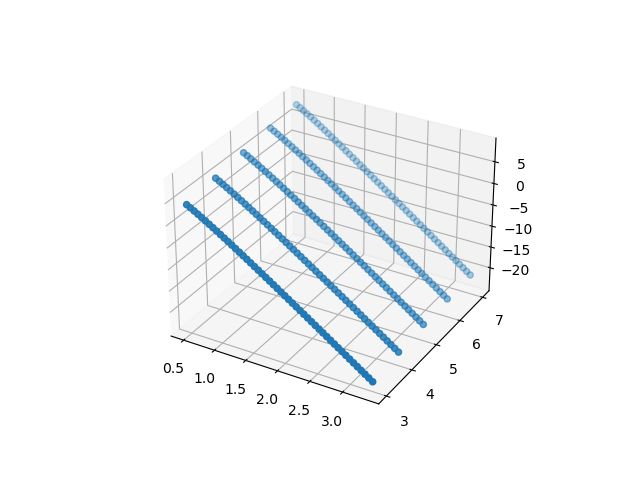
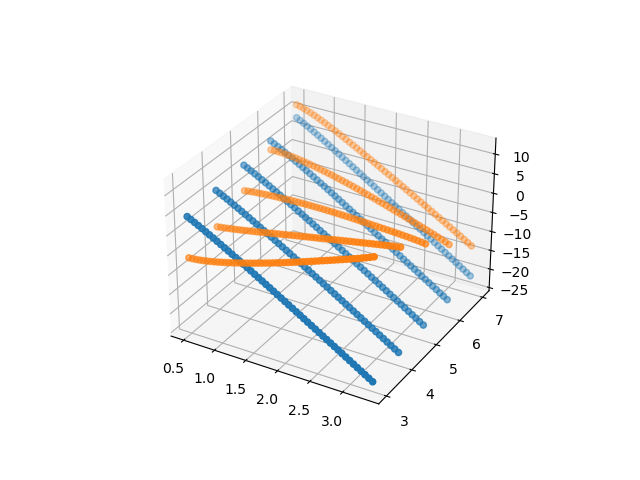
better Chebyshev?

Changed region(s): [[0.25, 0.1875, 0.8438, 0.7812], [0.5625, 0.6562, 0.625, 0.7188]]

diff --git a/postprocessing/Chebyshev.py b/postprocessing/Chebyshev.py
@@ -5,11 +5,53 @@ Tlist = np.load('../preprocessing/Tlist.npy')
 Plist = np.load('../preprocessing/Plist.npy')
 klist = np.load('../preprocessing/klist.npy')
 
-Tlist = np.array([1000/temp for temp in np.kron(np.array([[1] for i in range(5)]), Tlist).flatten()])
-Plist = np.log10(np.transpose(np.kron(np.array([[1] for i in range(50)]), Plist)).flatten())
-klist = np.log10(np.load('../preprocessing/klist.npy').flatten())
+Tlist = np.kron(np.array([[1] for i in range(5)]), Tlist).flatten()
+Plist = np.transpose(np.kron(np.array([[1] for i in range(50)]), Plist)).flatten()
+klist = np.load('../preprocessing/klist.npy').flatten()
 
 fig = plt.figure()
 ax = fig.add_subplot(111, projection='3d')
-ax.scatter(Tlist, Plist, klist)
+ax.scatter(np.array([1000/temp for temp in Tlist]), np.log10(Plist), np.log10(klist))
+
+def Tmap(Tin, Tmin, Tmax):
+    Tout = (2*(Tin**(-1)) - Tmin**(-1) - Tmax**(-1))/(Tmax**(-1) - Tmin**(-1))
+    return(Tout)
+
+def Pmap(Pin, Pmin, Pmax):
+    Pout = (2*np.log(Pin) - np.log(Pmin) - np.log(Pmax))/(np.log(Pmax) - np.log(Pmin))
+    return(Pout)
+    
+def log10_k(Tin, Pin):
+    with open ('../testing/DAKOTA_TCHEMtest/ORIGINAL_FULL_pentane.yaml', "r") as myfile:
+        inputfile = myfile.readlines()
+        cheb_data = inputfile[1854:1863]
+    Tmin = float(cheb_data[0].split(': ')[1][:-1].split(',')[0][1:])
+    Tmax = float(cheb_data[0].split(': ')[1][:-1].split(',')[1][1:-1])
+    Pmin = float(cheb_data[1].split(': ')[1][:-1].split(',')[0][1:-4])
+    Pmax = float(cheb_data[1].split(': ')[1][:-1].split(',')[1][1:-5])
+    cheb_coeffs = [cheb_data[-6:][i][5:-2].split(', ') for i in range(6)]
+    Tout = Tmap(Tin, Tmin, Tmax)
+    Pout = Pmap(Pin, Pmin*101325, Pmax*101325)
+    S = 0
+    for i in range(1, 7):
+        TCHEB_coeffs = [0 for k in range(i+1)]
+        TCHEB_coeffs[-1] = 1
+        TCHEB = np.polynomial.chebyshev.Chebyshev(TCHEB_coeffs)
+        for j in range(1, 5):
+            PCHEB_coeffs = [0 for l in range(j+1)]
+            PCHEB_coeffs[-1] = 1
+            PCHEB = np.polynomial.chebyshev.Chebyshev(PCHEB_coeffs)
+            S = S + float(cheb_coeffs[i-1][j-1])*TCHEB(Tout)*PCHEB(Pout)
+    return(S)
+
+kpred = np.array([log10_k(Tlist[i], Plist[i]) for i in range(250)])
+
+ax.scatter([1000/temp for temp in Tlist], np.log10(Plist), kpred)
 fig.savefig('Chebyshev.PNG')
+
+
+# for i in range(7):
+#     coeffs_i = [0 for j in range(i+1)]
+#     coeffs_i[-1] = 1
+#     plt.scatter(list(np.linspace(-1, 1)), [np.polynomial.chebyshev.Chebyshev(coeffs_i)(x) for x in np.linspace(-1, 1)])
+# plt.savefig('test.PNG')
